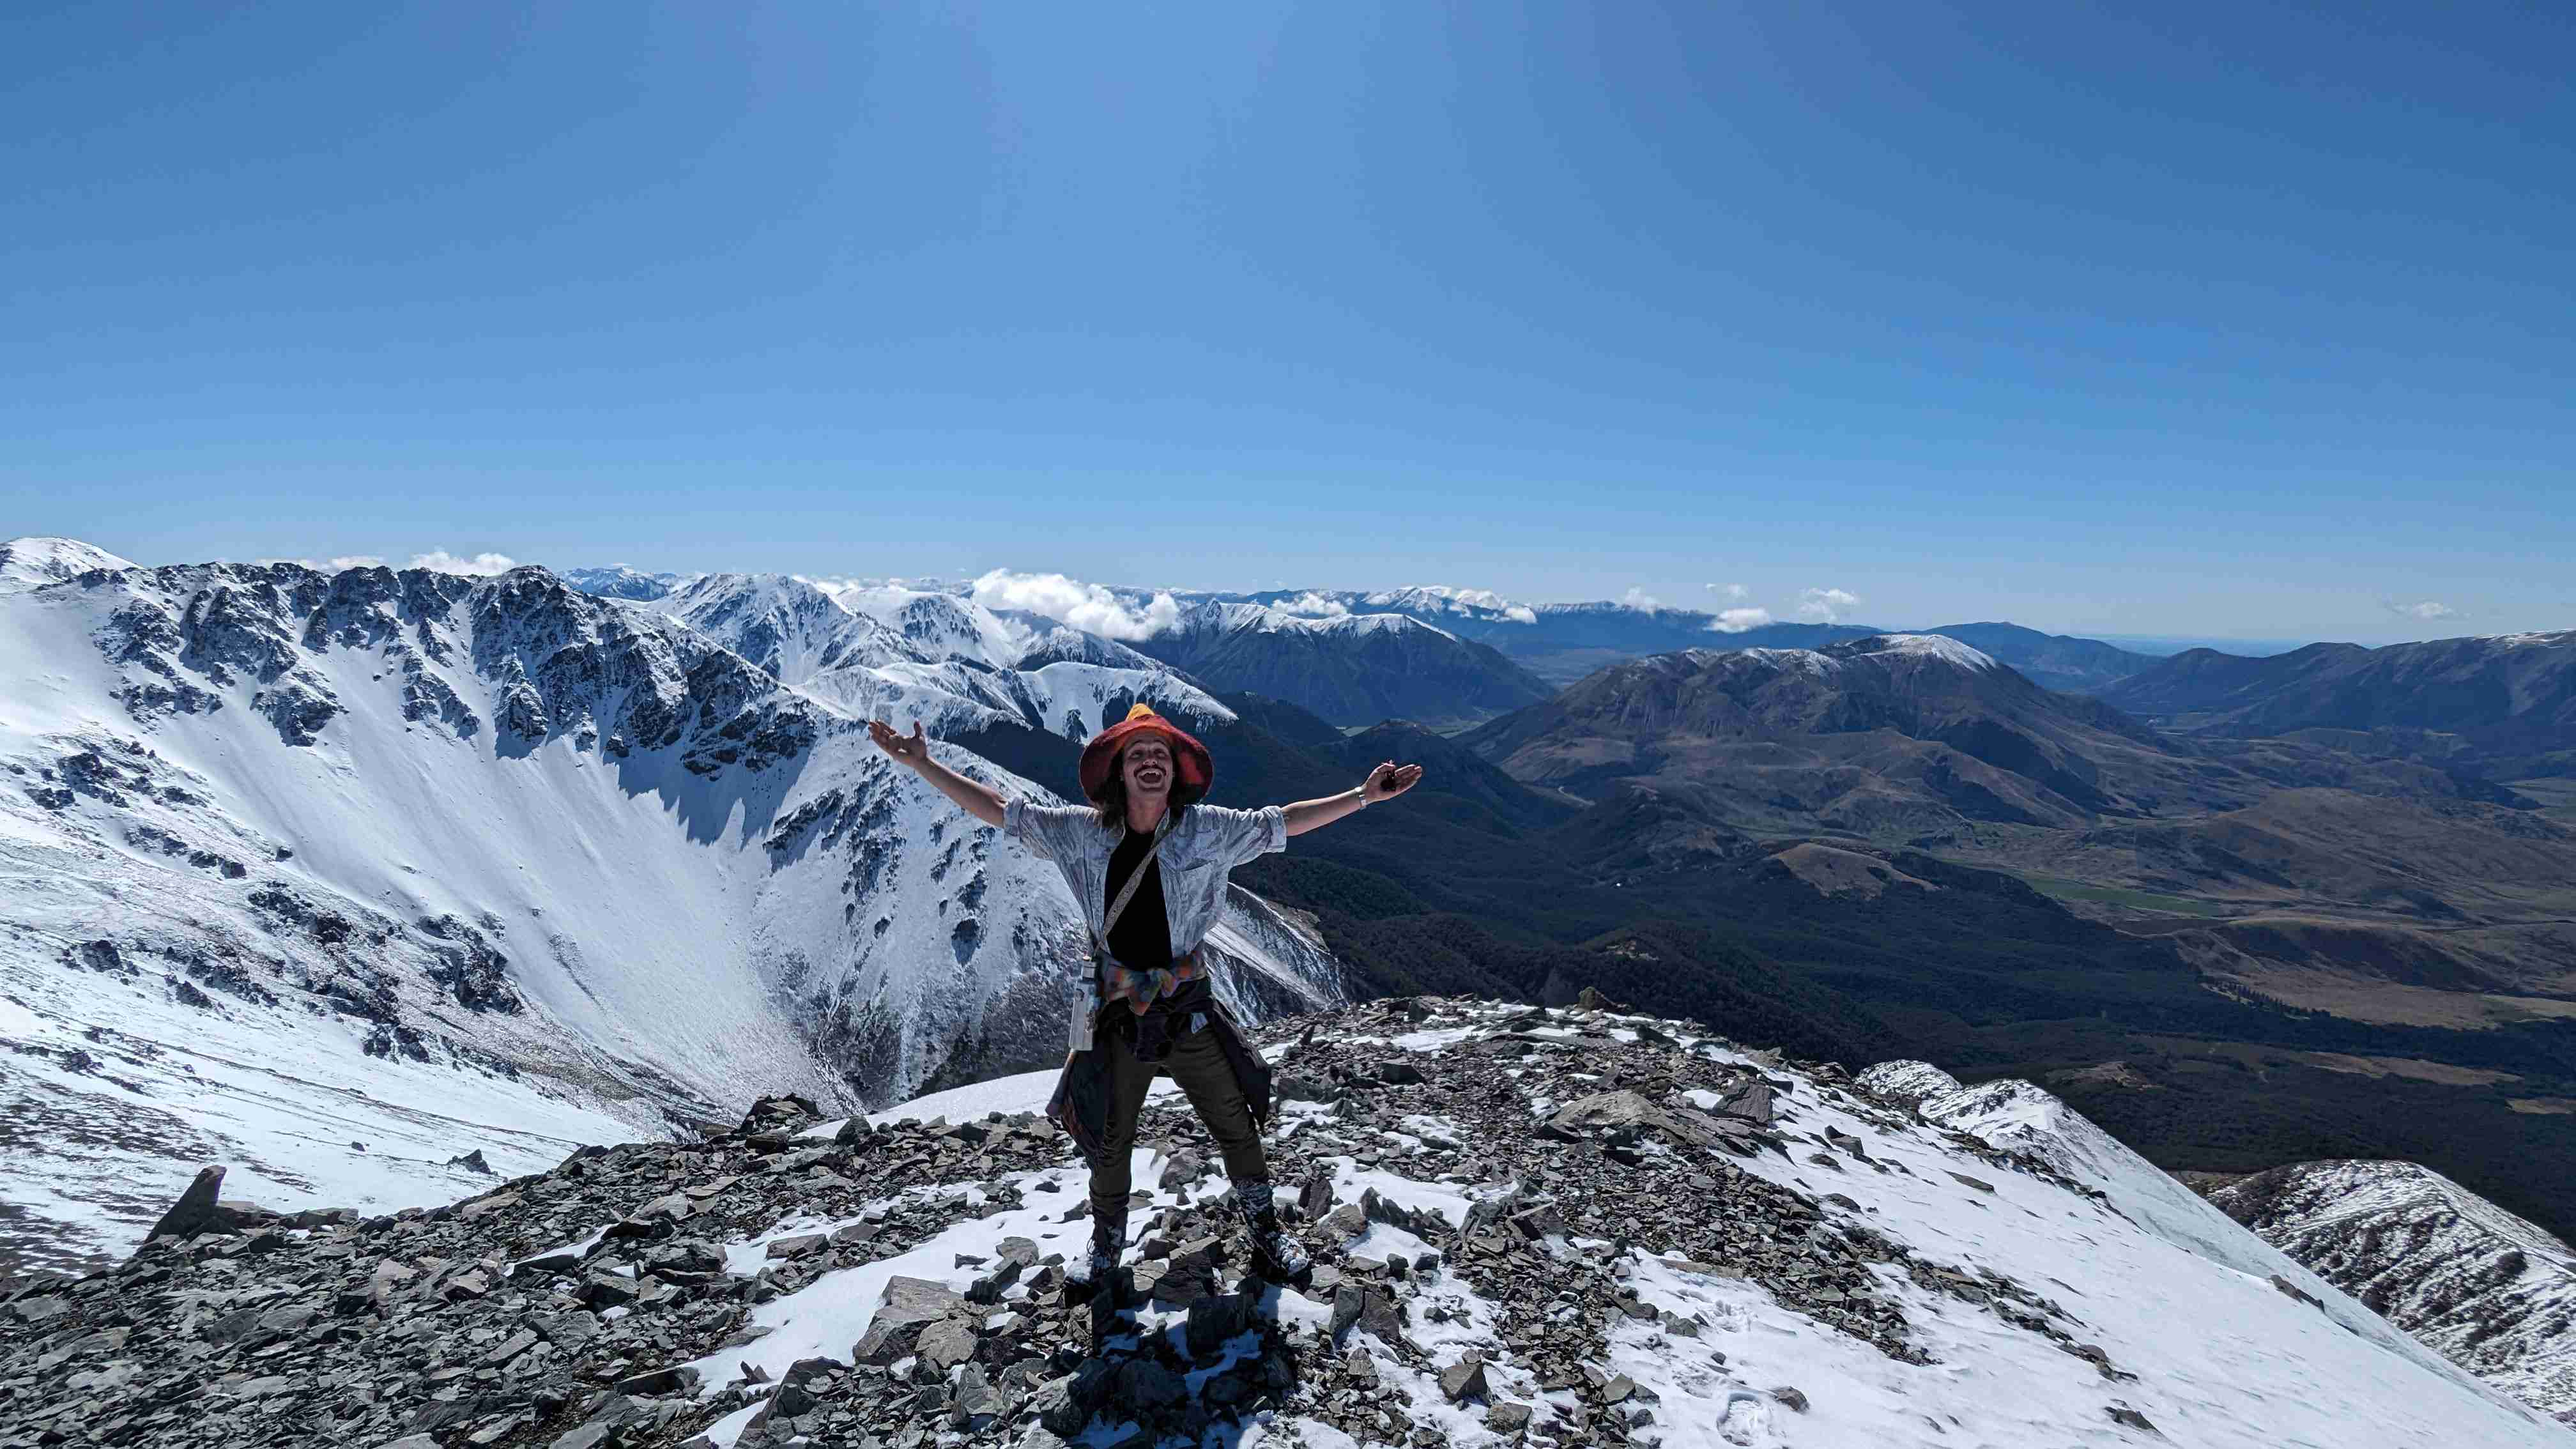
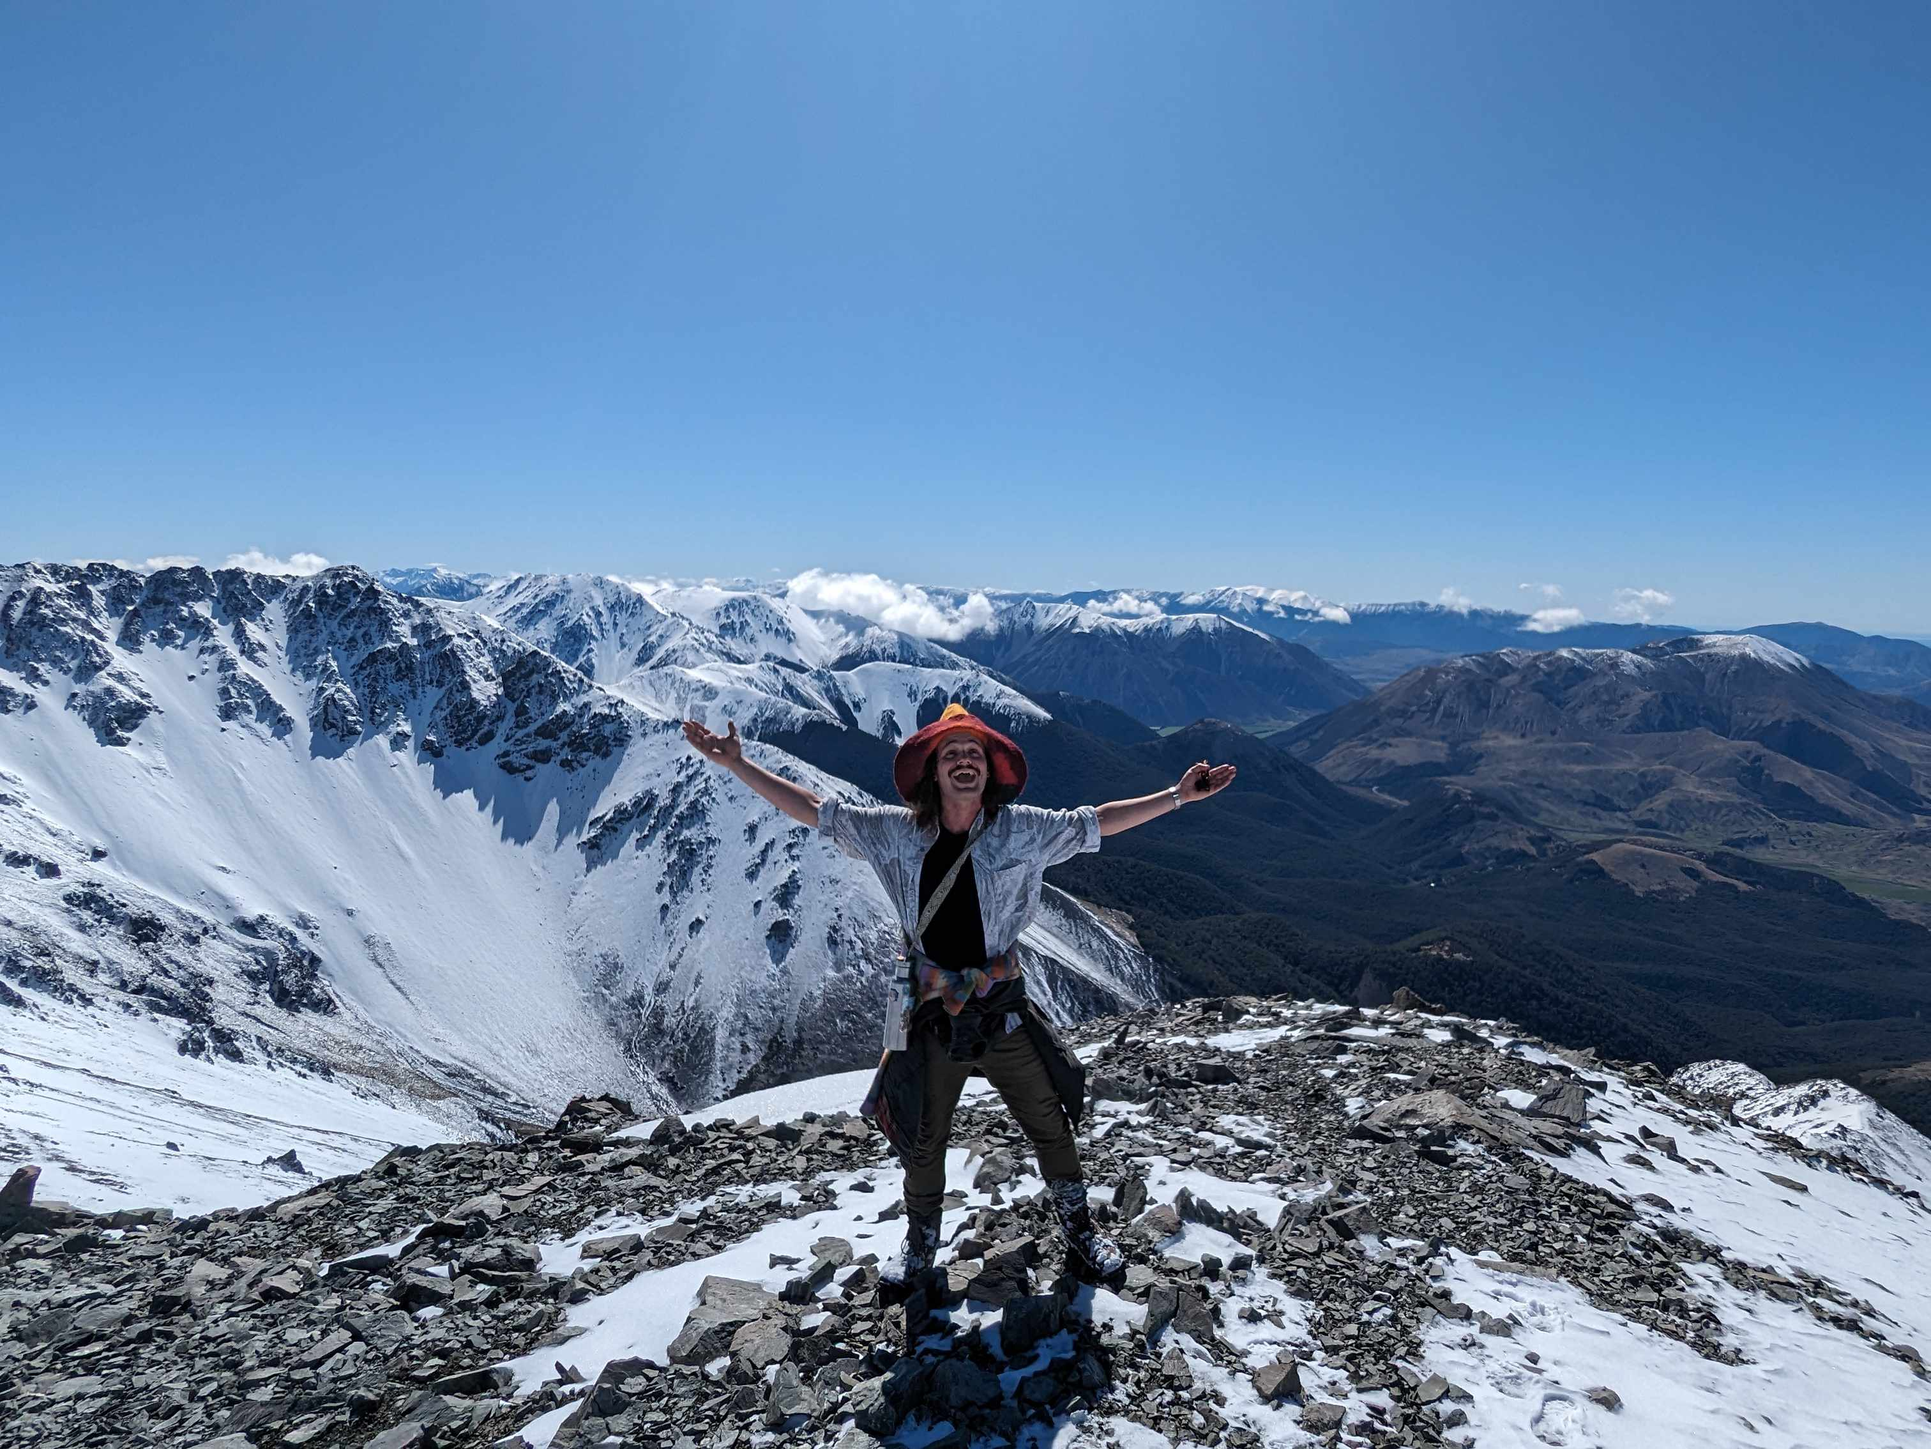
Remove header and increase image quality

diff --git a/_includes/header.html b/_includes/header.html
@@ -14,10 +14,6 @@
 						</svg>
 					</span>
 				</label>
-
-				<div class="trigger">
-					<a class="page-link" href="/about/">About</a>
-				</div>
 			</nav>
     </div>
   </header>
